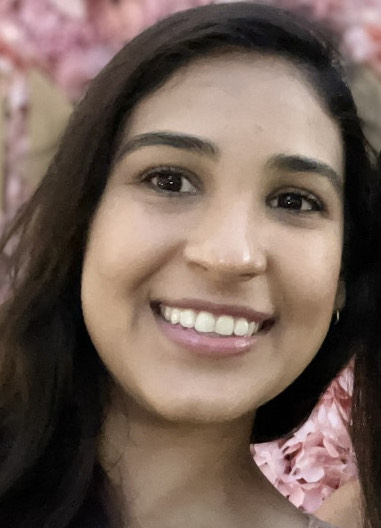
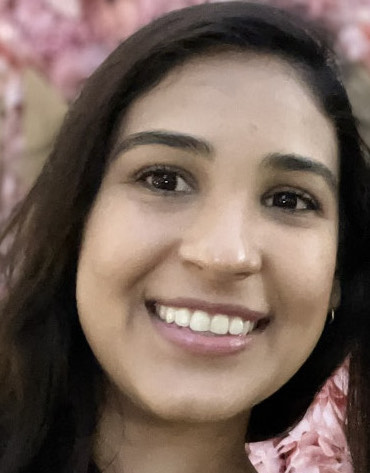
navegation css updates

diff --git a/assets/css/style.css b/assets/css/style.css
@@ -3,9 +3,6 @@ body {
     background-color:#cdd5e1
 
 }
-header:hover{
-    
-}
 header {
     display:block;
     margin: 20px;
@@ -18,34 +15,36 @@ header{
 
 header h1{
     display: inline-block;
-    background-color: azure
     font-size: 50px;
+    background-color: azure
 }
-
-header nav {
-    padding-top: 10px;
-    margin-right: 30px;
-    float: right;
-    font-family: 'Trebuchet MS', 'Lucida Sans Unicode', 'Lucida Grande', 'Lucida Sans';
-    font-size: 20px; color: 
-    
+header a{
+    color: azure;
+    text-underline-position: under;
 }
 .coding {
     background:gray;
 }
+.coding h2{
+    background-color: azure;
+    padding: 10px;
+    display:inline-block;
+}
+header nav {
+    font-size: 20px; 
+    padding-top: 10px;
+    margin-right: 30px;
+    float: right;
+    font-family: 'Trebuchet MS', 'Lucida Sans Unicode', 'Lucida Grande', 'Lucida Sans';
+}
 header nav ul {
     display: flex;
-    flex-wrap: wrap
-    text-underline: 50px;
-    list-style-type: none;
-   
-    
+    flex-wrap: wrap 
 }
 header nav ul li {
     display: inline-block;
     margin-left: 100px;
     text-align: left;
-    
 }
 
 section {
@@ -59,6 +58,7 @@ section header {
     padding:20px
     
 }
+
 h2{
     text-align: right;
 }
@@ -121,5 +121,6 @@ section ul li {
     text-align: left;
     font-size: 18px;
     text-decoration: underline black 2px; 
+    text-underline-position: under;
     
  }

diff --git a/index.html b/index.html
@@ -19,7 +19,7 @@
                <li><a href="#resume">Resume</a></li>
             </ul>
         </nav>
-            <div><h2>My First Programming Adventures</h2></div>
+            <div><h2>My First Programming Adventure</h2></div>
    </header>
     <main>
         <section id="about-me">
@@ -29,7 +29,7 @@
             <div class="section-content">
                 <p> My name is Laura Mendez.I am web developer student at UCLA bootcamp EDX. I am learning the fundamentals 
                 of front-end and back-end Web developmenent.
-                </p>  <img src="../assets/images/headshot.jpeg" alt="young woman smiling" class="float-right">
+                </p><img src="../assets/images/headshot.jpeg" alt="young woman smiling">
             </div>
         </section>
 
